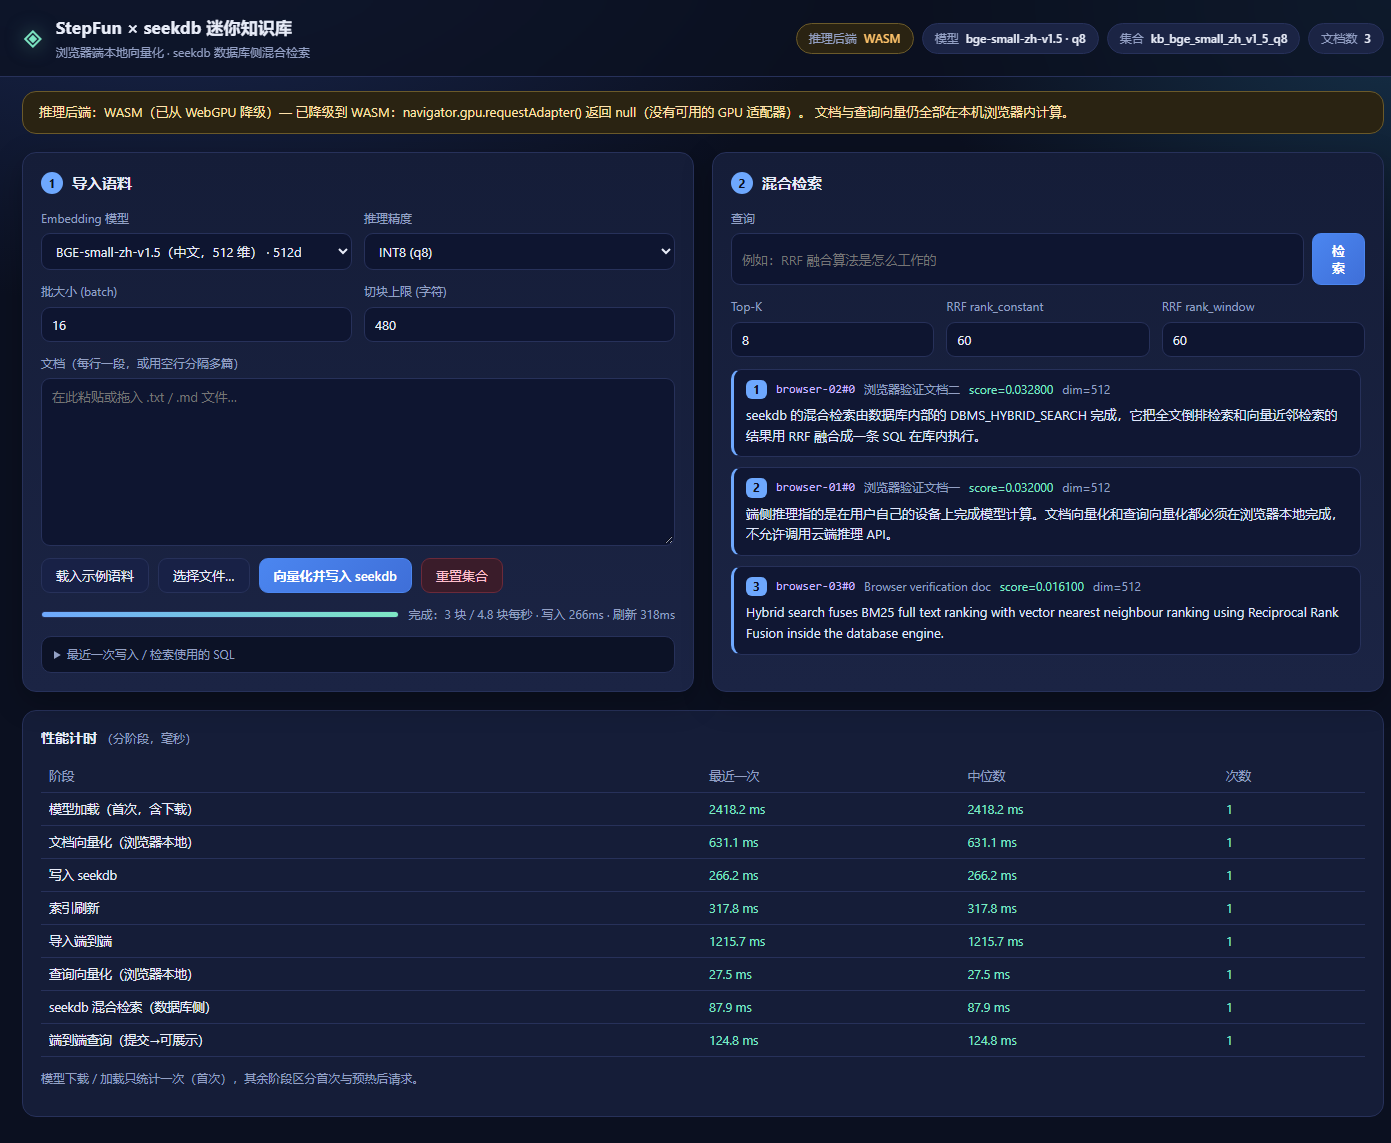
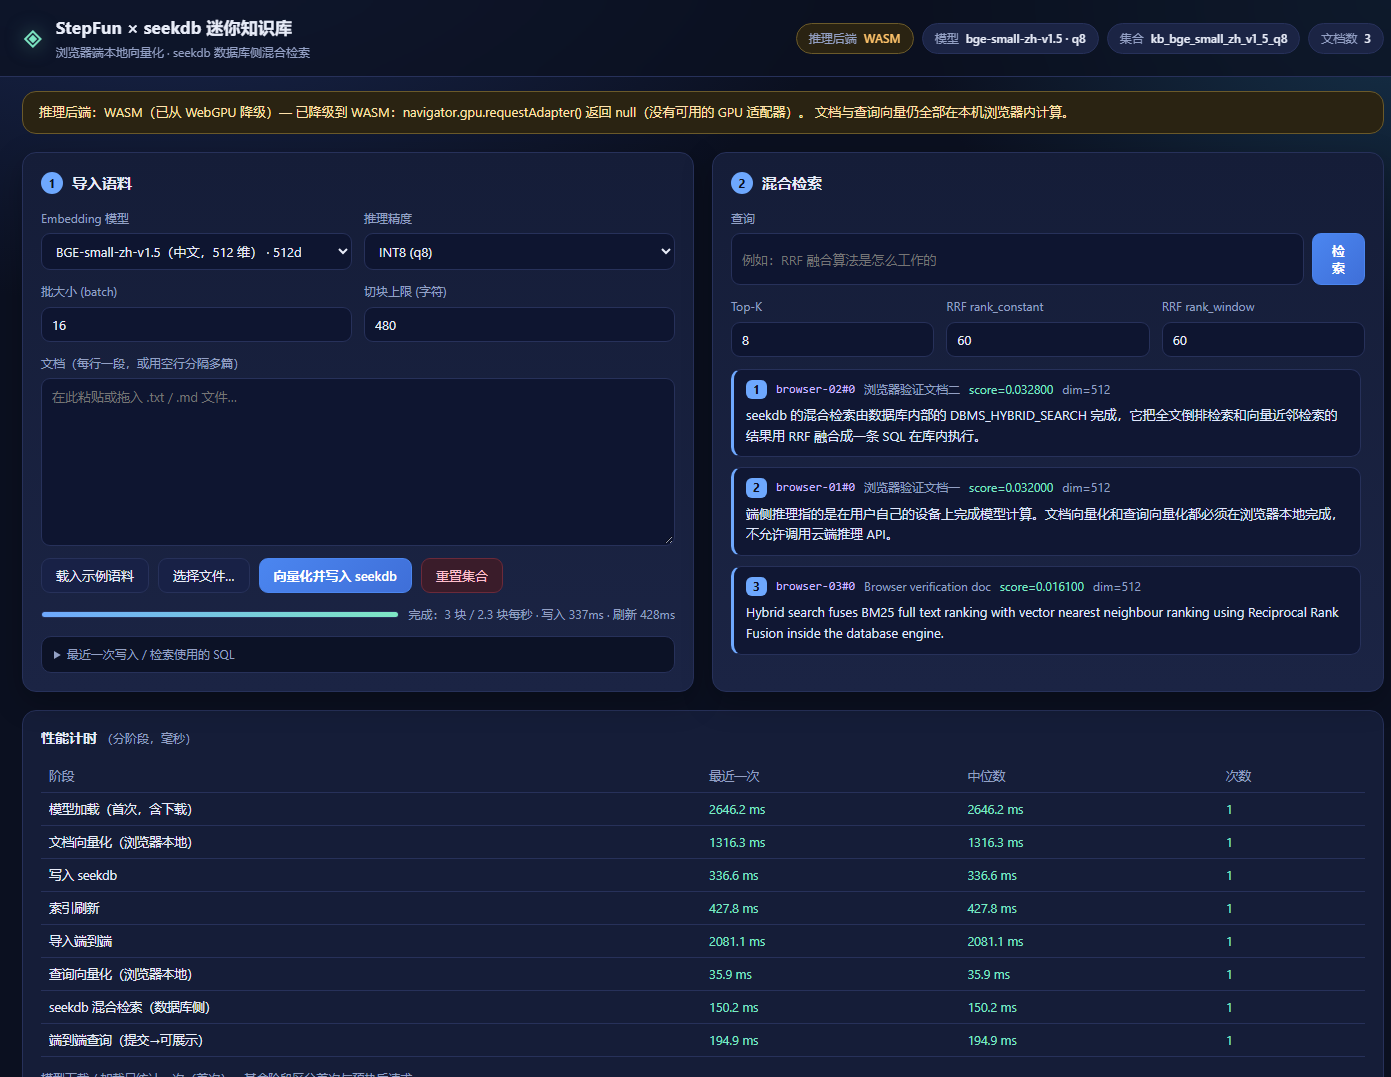
feat(stepfun): pin the model revision and verify the cache offline
The weights were pulled from HF resolve/main, so the revision was not
pinned and nothing recorded which bytes were actually used.

Both models are now pinned to a commit SHA:
  Xenova/bge-small-zh-v1.5   75c43b069aac4d136ba6bc1122f995fedcfd2781
  Xenova/all-MiniLM-L6-v2    751bff37182d3f1213fa05d7196b954e230abad9

fetch-models downloads from that SHA and records each file's size and
sha256 in data/model-manifest.json.  model-info recomputes the hashes
offline and reports whether the local cache still matches the pinned
revision, so "pinned" is a checkable fact rather than a claim.  The
current cache verifies clean: 7 files for bge, 6 for MiniLM.

npm run verify stays 21/21 and npm run verify:browser stays 16/16.

Changed region(s): [[0.0, 0.0, 1.0, 1.0], [0.2473, 0.1838, 0.34, 0.3064], [0.9274, 0.1838, 0.9892, 0.2758]]

diff --git a/stepfun/README.md b/stepfun/README.md
@@ -104,10 +104,10 @@ npm run verify:browser      # 浏览器端验证（16 条断言全绿，见 §9.
 | 维度 | **512** | 384 |
 | pooling / normalize | `cls` / L2 normalize=true | `mean` / L2 normalize=true |
 | 许可证 | **MIT** | Apache-2.0 |
-| revision | `main`（**未固定到 commit SHA**，见 §10 局限） | `main` |
+| revision | `75c43b06…`（**已固定到 commit SHA**） | `751bff37…`（**已固定到 commit SHA**） |
 | 默认精度 | `q8`（INT8 动态量化） | `q8` |
 
-> revision 说明：`scripts/fetch-models.mjs` 走的是 HF `resolve/main`，本地 `.model-cache/` 里没有记录 commit SHA，因此 `src/config.mjs` 里 `revisionPinned: false`。这是**如实标注**的已知局限，不是声称「已固定版本」。要严格固定，把 `revision` 改成具体 commit 并重新 `npm run fetch-models`。
+> revision 说明（2026-11-06 更新）：`src/config.mjs` 里的 `revision` **已固定到具体 commit SHA**：`Xenova/bge-small-zh-v1.5` = `75c43b069aac4d136ba6bc1122f995fedcfd2781`，`Xenova/all-MiniLM-L6-v2` = `751bff37182d3f1213fa05d7196b954e230abad9`。`scripts/fetch-models.mjs` 按这个 SHA 下载（不是会漂移的 `main`），并把每个文件的字节数与 **sha256** 写进 `data/model-manifest.json`；`scripts/model-info.mjs` 会**离线重算 sha256 并逐文件核对**本地缓存，当前输出为「✔ 已核对 7 个 / 6 个文件与固定 revision 清单（sha256 全部一致）」。因此「版本已固定」是可当场验证的事实，而不是一句声明。
 
 ---
 
@@ -361,7 +361,7 @@ FROM (
    * 仍未测：① **真实显卡**上的 WebGPU 性能（本机只有 SwiftShader 软件适配器）；② 浏览器侧的检索质量指标（验证语料只有 3 块）。
    * 过程中修掉了三个真实缺陷（模块说明符、seekdb 写入、验证脚本自身），逐条记录在 §9.4。
 
-2. **模型 revision 未固定到 commit SHA**（§3）。本地缓存来自 HF `resolve/main`，`.model-cache/` 内没有记录 commit。
+2. ~~**模型 revision 未固定到 commit SHA**（§3）~~ —— **已修复**（2026-11-06）：两个模型的 `revision` 都已固定到具体 commit SHA，下载脚本按 SHA 取文件并记录逐文件 sha256，`npm run models:info` 会离线核对本地缓存与该清单（当前全部一致）。
 
 3. **质量评测集偏小**：28 条查询 / 36 篇文档，Recall@5 的最小刻度就是 0.036，因此 §4.3 里量化前后的差异幅度**与噪声同量级**，只支持「未观察到质量下降」这一结论，不支持「INT8 更好」。
 
